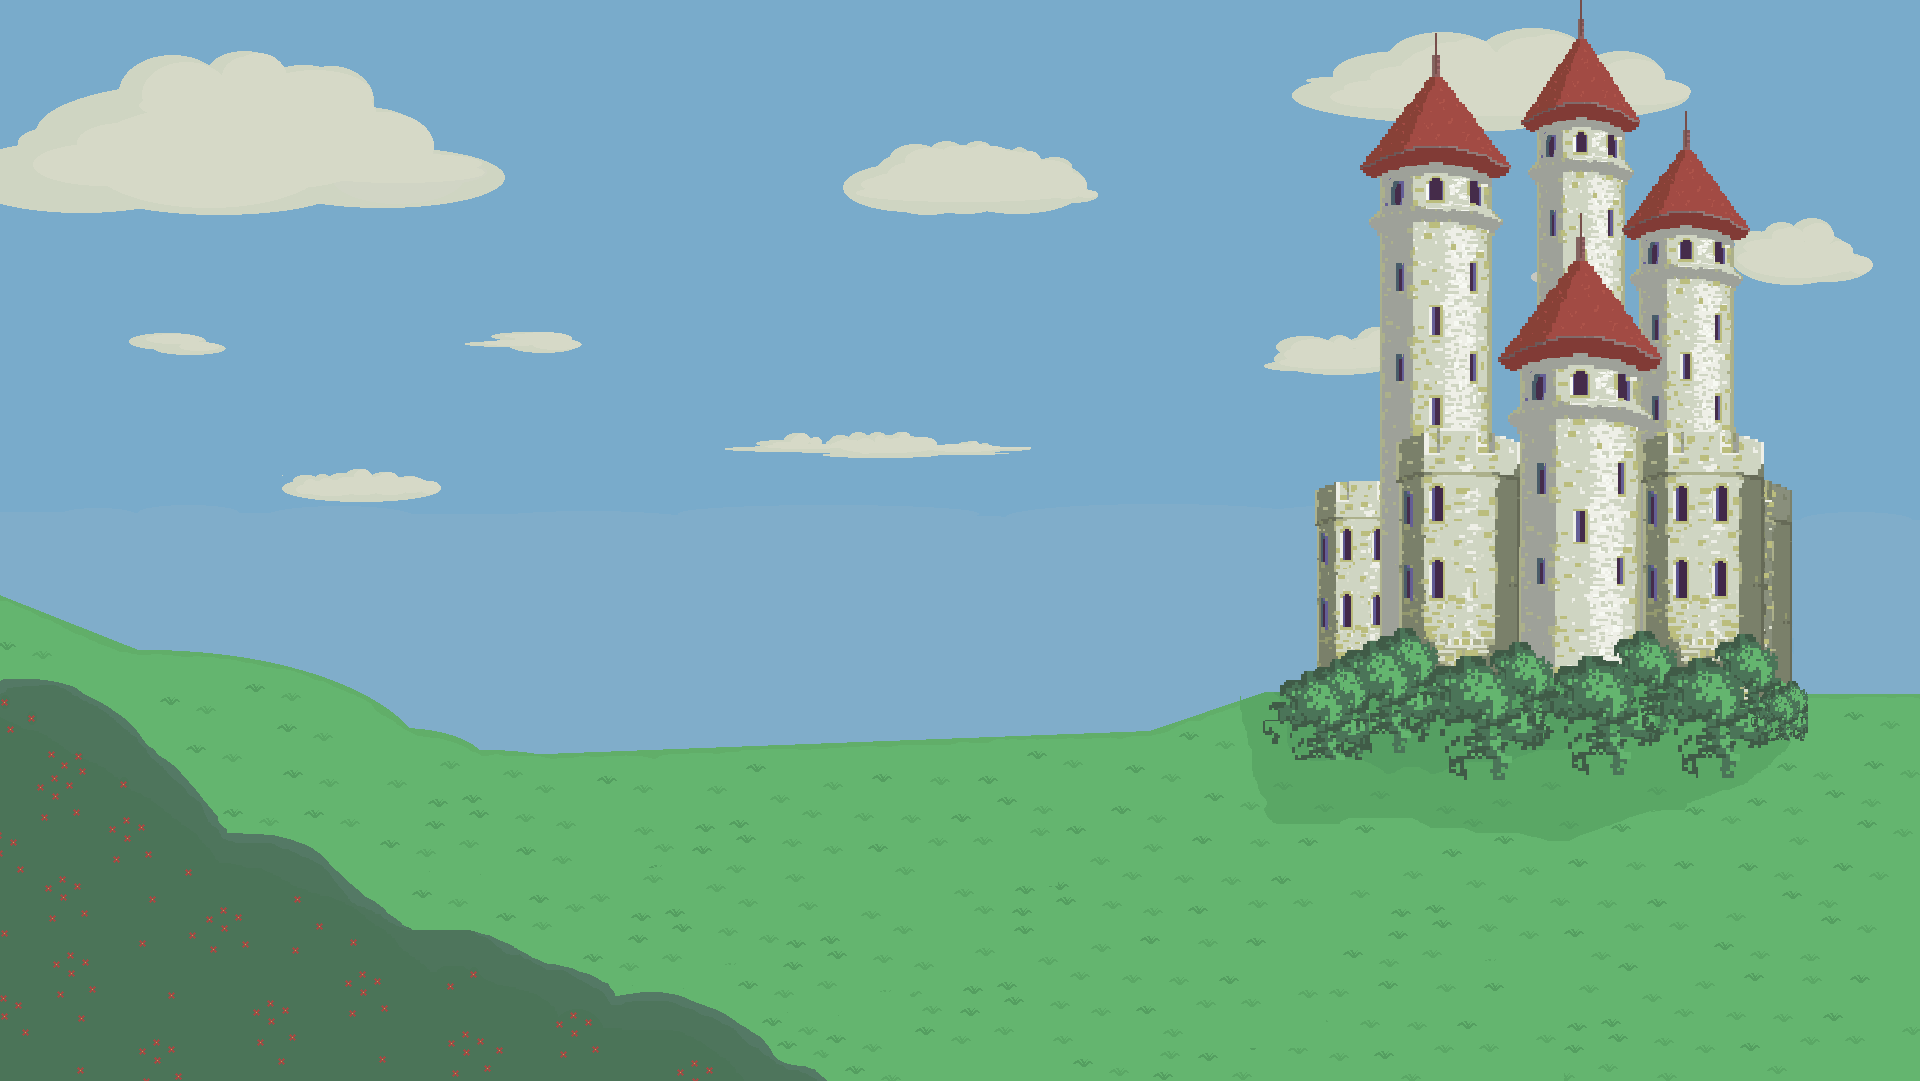
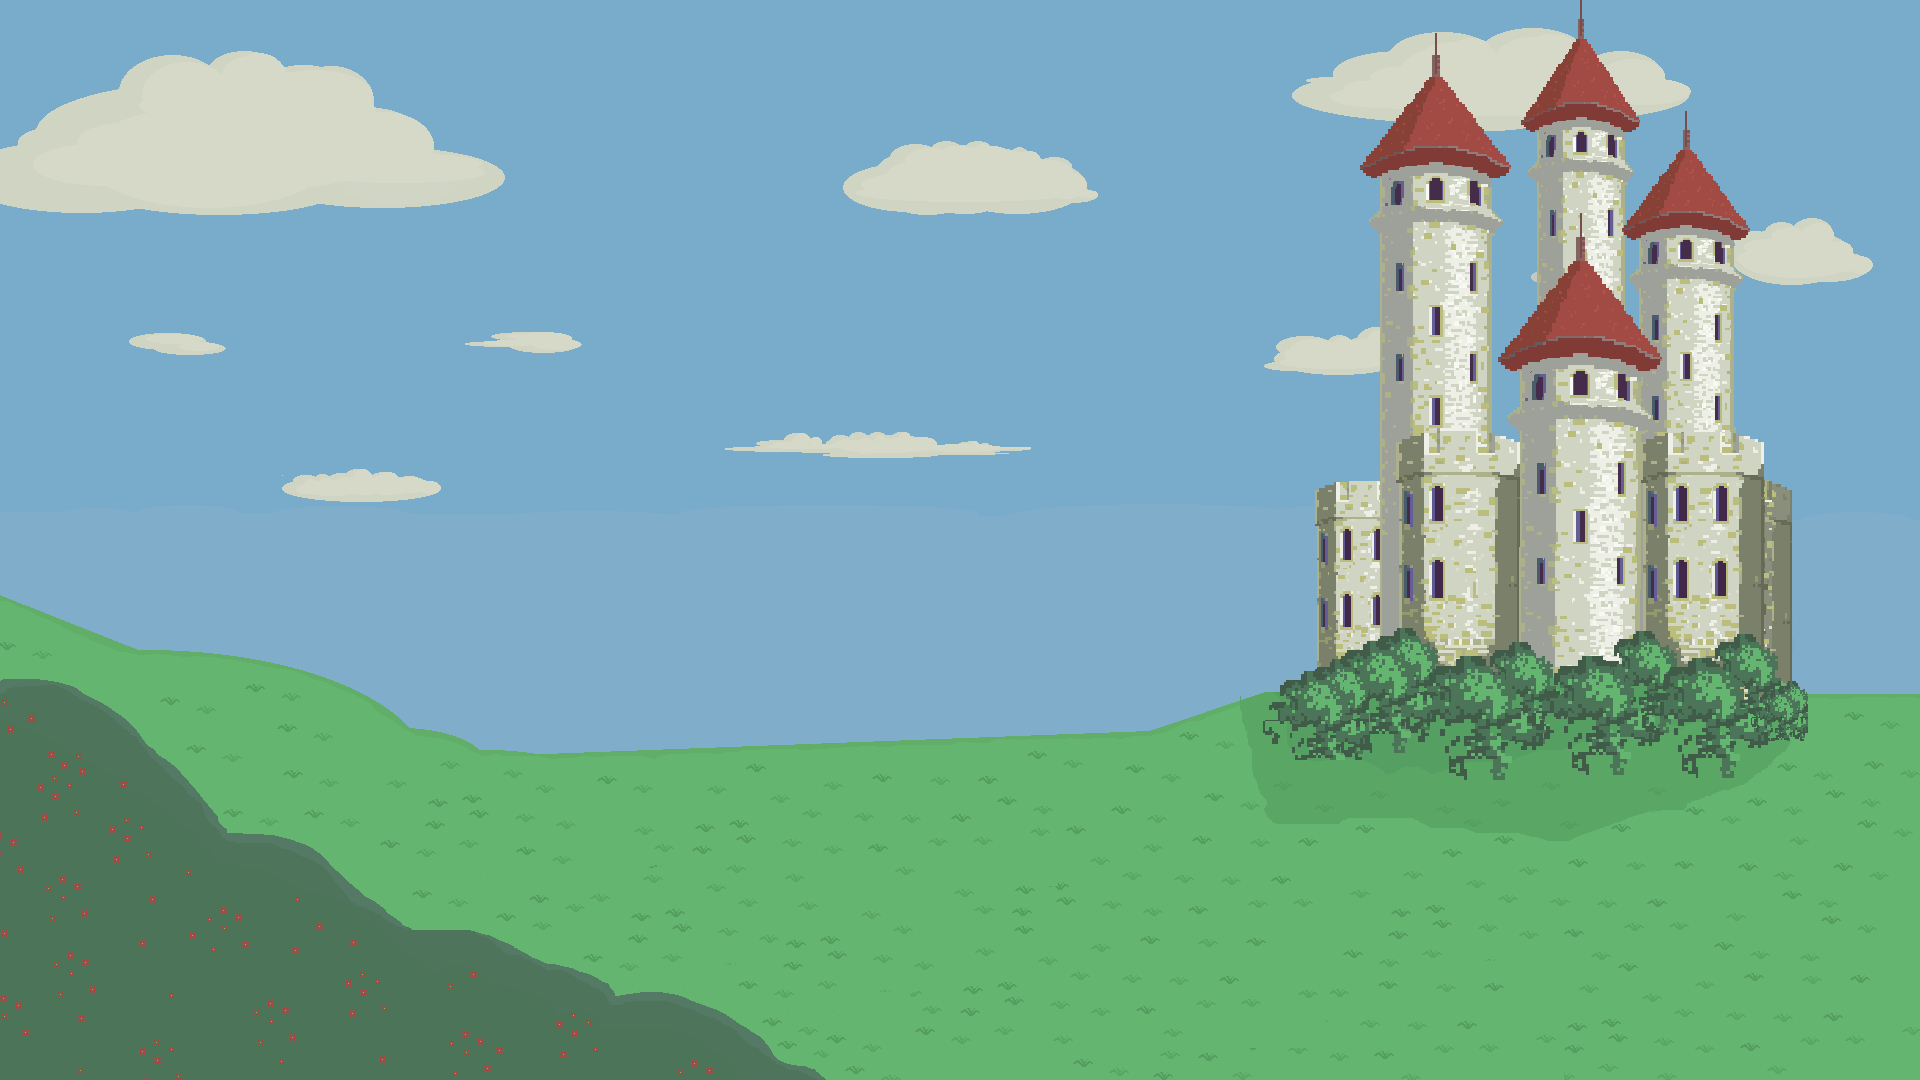
Se agrego icono a la pagina y se hicieron modificaciones menores

Changed region(s): [[0.6875, 0.5806, 0.7812, 0.6111], [0.875, 0.55, 0.9062, 0.6111], [0.9062, 0.6417, 0.9375, 0.6722]]

diff --git a/index.html b/index.html
@@ -4,6 +4,7 @@
     <meta charset="UTF-8">
     <meta http-equiv="X-UA-Compatible" content="IE=edge">
     <meta name="viewport" content="width=device-width, initial-scale=1.0">
+    <link rel="shortcut icon" href="./img/icon.svg">
     <link rel="stylesheet" href="css/reset.css">
     <link rel="stylesheet" href="css/style.css">
     <!-- Alertas Personalizadas-->
@@ -60,7 +61,7 @@
                 <button id="new-game" class="boton2" onclick="newGame()"> Nuevo Juego </button>
                 <button id="desist" class="boton2"> Desistir </button>
             </div>
-            <audio src="./audio/success.mp3" id="sound1"></audio>
+            <audio src="./audio/succes.mp3" id="sound1"></audio>
             <audio src="./audio/game-over.mp3" id="sound2"></audio>
         </section>
     </main>

diff --git a/css/style.css b/css/style.css
@@ -3,7 +3,7 @@
 body {
     background-image: url(../img/castillo.png);
     /* Para dejar la imagen de fondo centrada, vertical y horizontalmente */
-    background-position: center center;
+    background-position: center 10%;
 
     /* Para que la imagen de fondo no se repita */
     background-repeat: no-repeat;
@@ -28,6 +28,7 @@ h1, h4 {
 
 h1{
     font-size: 5rem;
+    padding-left: 10%;
 }
 
 h4{
@@ -36,11 +37,15 @@ h4{
 
 .sonido{
     float: right;
-    text-align: center;
+    display: flex;
+    flex-flow: column wrap;
+    align-items: center;
+    width: 10%;
 }
 
 .volumen{
     display: none;
+    width: 80%;
 }
 
 main{

diff --git a/js/audio.js b/js/audio.js
@@ -3,8 +3,6 @@ function sound(){
     const music1 = document.getElementById('music1');
     const music2 = document.getElementById('music2')
     const volumen = document.querySelector('.volumen');
-    music1.volume = 0.4;
-    music2.volume = 0.4;
     sound.addEventListener("click", function(){
         volumen.style.display= "flex";
         volumen.addEventListener("click", function(){

diff --git a/js/scrip.js b/js/scrip.js
@@ -6,6 +6,9 @@ window.onload = function main(){
 gameSection.style.display = "none";
 newWordSection.style.display = "none";
 document.getElementById("music1").play();
+music1.volume = 0.4;
+document.getElementById("music2");
+music2.volume = 0.4;
 sound();
 
 //Botones
